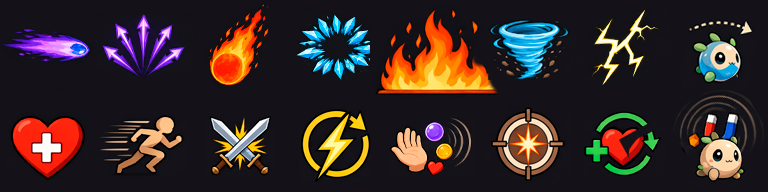
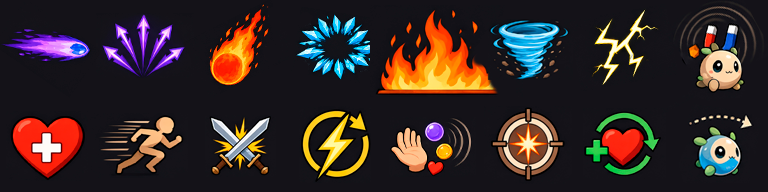
+ ворон

Changed region(s): [[0.7812, 0.5, 1.0, 0.9375], [0.875, 0.0312, 1.0, 0.4688]]

diff --git a/js/core/Game.js b/js/core/Game.js
@@ -632,6 +632,12 @@ export class Game {
     this.pet = new Pet(this.player.x, this.player.y - 40,
       (d.new.stats[0] || {}).value || 200, pcfg.speed || 260, pcfg.magnet_radius || 60, !!d.new.fetch_potions);
     this.pet.tpl = d.new.tpl;
+    // спрайт питомца из шаблона (как при старте забега)
+    const tpl = this.shop.tplById.get(d.new.tpl);
+    if (tpl && tpl.sprite) {
+      this.pet.sprite = tpl.sprite;
+      this.pet.sprite_frames = tpl.sprite_frames;
+    }
     this.petLevels = {};
     this.uiPetSwap = null;
   }
@@ -718,6 +724,12 @@ export class Game {
         (this.shop.cfg.pet || {}).speed || 260, (this.shop.cfg.pet || {}).magnet_radius || 60,
         !!petItem.fetch_potions);
       this.pet.tpl = petItem.tpl;
+      // спрайт питомца из шаблона
+      const tpl = this.shop.tplById.get(petItem.tpl);
+      if (tpl && tpl.sprite) {
+        this.pet.sprite = tpl.sprite;
+        this.pet.sprite_frames = tpl.sprite_frames;
+      }
     }
     this.progression = new ProgressionSystem(b.progression);
     this.upgrades = new UpgradeSystem(s, this.config.localization, this.settings.lang, this.config.items_config.pet_upgrades);
@@ -1429,19 +1441,44 @@ export class Game {
       this.skills.drawOrbits(ctx);
       // питомец (монстры его не бьют — коллизий с ним нет)
       if (this.pet) {
-        const bobY = Math.sin(this.pet.bob) * 4;
-        ctx.fillStyle = '#ffd34d';
-        ctx.beginPath();
-        ctx.arc(this.pet.x, this.pet.y + bobY, 10, 0, Math.PI * 2);
-        ctx.fill();
-        ctx.strokeStyle = '#fff';
-        ctx.stroke();
-        if (this.pet.carrying) {
-          const cc = { coin: '#ffd34d', xp: '#4da6ff', potion: '#ff5a5a' }[this.pet.carrying.kind] || '#fff';
-          ctx.fillStyle = cc;
+        const pet = this.pet;
+        const size = 16; // размер в игре
+        const img = pet.sprite ? this.assets.get(pet.sprite) : null;
+        const f = pet.sprite_frames;
+        const useArt = img && img.tagName === 'IMG' && f;
+        if (useArt) {
+          // Предмет — СЛОЕМ НИЖЕ питомца: центр по X питомца, Y на 50% ниже центра
+          if (pet.carrying) {
+            const cc = { coin: '#ffd34d', xp: '#4da6ff', potion: '#ff5a5a' }[pet.carrying.kind] || '#fff';
+            ctx.fillStyle = cc;
+            ctx.beginPath();
+            ctx.arc(pet.x, pet.y + size / 2, 5, 0, Math.PI * 2);
+            ctx.fill();
+          }
+          const col = Math.floor(pet.animT * f.fps) % f.columns;
+          const row = 0;
+          ctx.save();
+          ctx.translate(pet.x, pet.y);
+          ctx.scale(pet.facing, 1);
+          ctx.drawImage(img, col * f.frame_width, row * f.frame_height, f.frame_width, f.frame_height,
+            -size / 2, -size / 2, size, size);
+          ctx.restore();
+        } else {
+          // Фолбэк: программная отрисовка (жёлтый кружок)
+          const bobY = Math.sin(pet.bob) * 4;
+          ctx.fillStyle = '#ffd34d';
           ctx.beginPath();
-          ctx.arc(this.pet.x, this.pet.y + bobY - 14, 5, 0, Math.PI * 2);
+          ctx.arc(pet.x, pet.y + bobY, 10, 0, Math.PI * 2);
           ctx.fill();
+          ctx.strokeStyle = '#fff';
+          ctx.stroke();
+          if (pet.carrying) {
+            const cc = { coin: '#ffd34d', xp: '#4da6ff', potion: '#ff5a5a' }[pet.carrying.kind] || '#fff';
+            ctx.fillStyle = cc;
+            ctx.beginPath();
+            ctx.arc(pet.x, pet.y + bobY - 14, 5, 0, Math.PI * 2);
+            ctx.fill();
+          }
         }
       }
       for (const p of this.skills.projectiles) this._drawShot(ctx, p, '#ffd34d');

diff --git a/js/entities/Pet.js b/js/entities/Pet.js
@@ -15,6 +15,7 @@ export class Pet extends Entity {
     this.bob = Math.random() * 6;
     this.wob = Math.random() * 6; // фаза синусоиды полёта
     this.anim = null;
+    this.animT = 0; // время для зацикленной спрайт-анимации
   }
 
   static isLoot(p) {
@@ -29,6 +30,7 @@ export class Pet extends Entity {
 
   update(dt, px, py, pickups, grabR, deliverR, magnetPull = 380) {
     this.bob += dt * 6;
+    this.animT += dt;
     // магнит: монеты и XP (и аптечки у особого) в радиусе притягиваются к питомцу
     for (const p of pickups) {
       if (!this.canTake(p)) continue;

diff --git a/js/core/AssetLoader.js b/js/core/AssetLoader.js
@@ -48,6 +48,8 @@ export class AssetLoader {
         if (v) audio.add(AssetLoader.normalizeSfx(v));
       }
     }
+    // спрайты питомцев из шаблонов (pets/*.png)
+    for (const t of ((items && items.templates) || [])) if (t.sprite) img.add(t.sprite);
     return { images: [...img], audio: [...audio] };
   }
 
